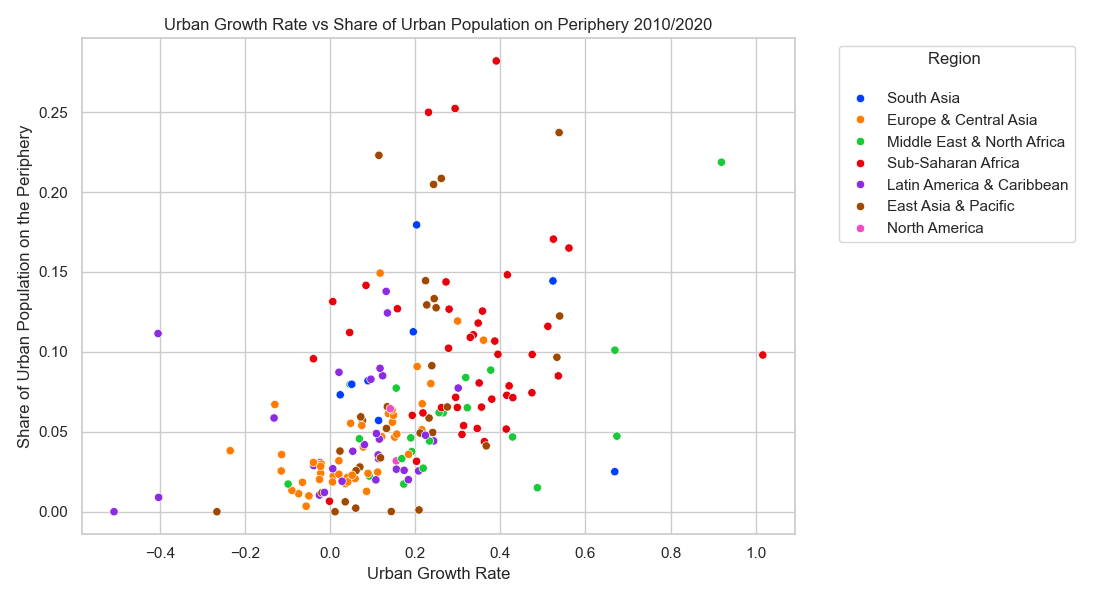
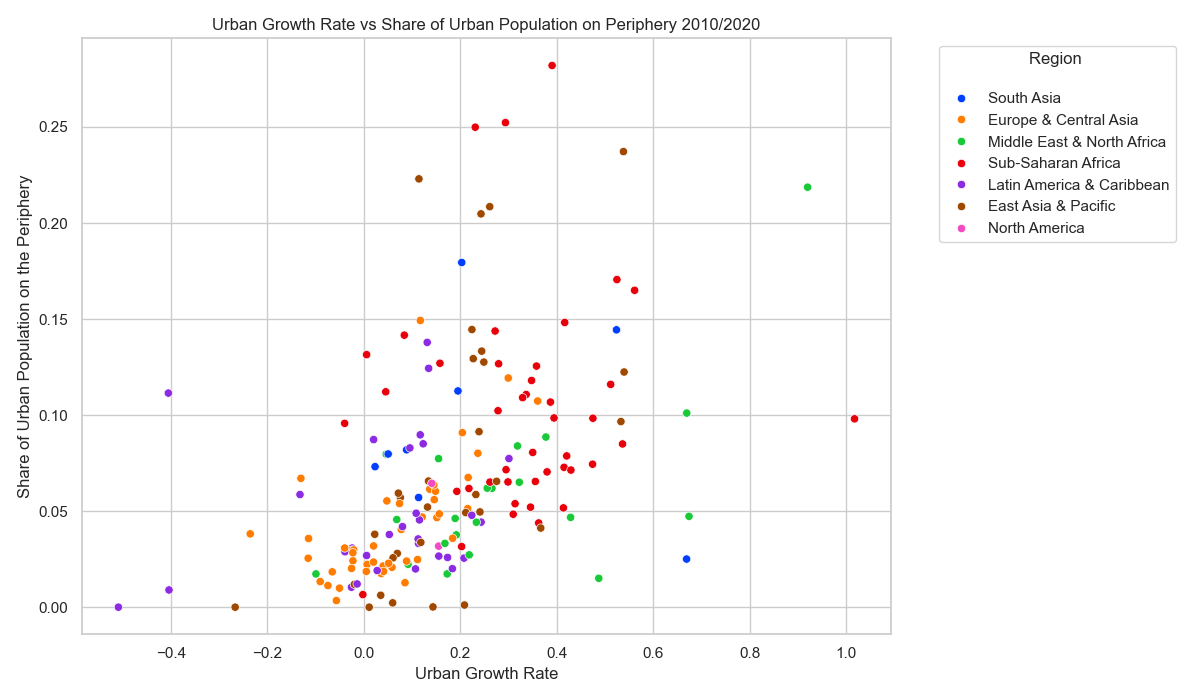
Fixed bugs

diff --git a/plots.py b/plots.py
@@ -29,7 +29,7 @@ dt["urbanGrowthRate"] = dt["UrbpopChange"]/dt["UrbanPopulation2010"]
 dt["shOfPopUrban2010"] = dt["UrbanPopulation2010"]/dt["Population2010"]
 
 # Plot 1 Urban Growth Rate vs Share of Urban Population on Periphery
-plt.figure(figsize=(11, 6))
+plt.figure(figsize=(12, 7))
 sns.scatterplot(data=dt, x="urbanGrowthRate", y="shOfUrbanPopinPeri", hue="Region", palette="bright")
 plt.xlabel("Urban Growth Rate")
 plt.ylabel("Share of Urban Population on the Periphery")
@@ -42,20 +42,20 @@ plt.savefig(results1 + r"\Urban Growth Rate vs Share of Urban Population on Peri
 # -----------------------------------------
 
 # Plot 2 Urban Share in 2010 vs Share of Urban Population on Periphery
-plt.figure(figsize=(11, 6))
+plt.figure(figsize=(12, 7))
 sns.scatterplot(data=dt, x="shOfPopUrban2010", y="shOfUrbanPopinPeri", hue="Region", palette="bright")
-plt.xlabel("Urban Population Share in 2010")
+plt.xlabel("Share of urban population in 2010")
 plt.ylabel("Share of Urban Population on the Periphery")
-plt.title("Urban Population Share in 2010 vs Share of Urban Population on Periphery")
+plt.title("Share of urban population in 2010 vs Share of Urban Population on Periphery")
 plt.legend(bbox_to_anchor=(1.05, 1.0), loc='upper left', title="Region \n")
 plt.tight_layout()
-plt.savefig(results1 + r"\Urban Share in 2010 vs Share of Urban Population on Periphery.png")
+plt.savefig(results1 + r"\Share of urban population in 2010 vs Share of Urban Population on Periphery.png")
 #plt.show()
 
 # --------------------------------------------
 
 # Plot 3  Urban Growth Rate vs Share of Urban Population on Periphery
-plt.figure(figsize=(11, 6))
+plt.figure(figsize=(12, 7))
 
 sns.scatterplot(data=dt, y="urbanGrowthRate", x="shOfPopUrban2010", hue="Region", palette="bright")
 plt.xlabel("Urban Population Share in 2010")
@@ -76,7 +76,7 @@ plt.savefig(results1 + r"\Urban Growth Rate vs Urban Population Share in 2010.pn
 y_axis = (dt["c2UrbanPopChange_2010-2020"])/(dt["c2UrbanPopChange_2010-2020"] + dt["c3UrbanPopChange_2010-2020"])
 pop2010_urban2020 = dt["UrbanPopulation2020"] - dt["c2UrbanPopChange_2010-2020"] - dt["c3UrbanPopChange_2010-2020"]
 x_axis = (dt["c2UrbanPopChange_2010-2020"] + dt["c3UrbanPopChange_2010-2020"])/pop2010_urban2020
-plt.figure(figsize=(11, 6))
+plt.figure(figsize=(12, 7))
 
 sns.scatterplot(data=dt, y=y_axis, x=x_axis, hue="Region", palette="bright")
 plt.xlabel("Total growth rate for current urban area")
@@ -90,15 +90,15 @@ plt.savefig(results1 + r"\Urban Growth Rate vs Urban pop change on pp as share o
 # ------------------------------------------------
 # Plot 5  Share of population that is urban 2010 vs Urban pop change on pp as share of current urban change
 x_axis = dt["UrbanPopulation2010"]/dt["Population2010"]
-plt.figure(figsize=(11, 6))
+plt.figure(figsize=(12, 7))
 
 sns.scatterplot(data=dt, y=y_axis, x=x_axis, hue="Region", palette="bright")
-plt.xlabel("Share of population that is urban 2010")
+plt.xlabel("Share of urban population in 2010")
 plt.ylabel("Urban pop change on periphery as share of current urban change")
-plt.title("Share of population that is urban 2010 vs Urban pop change on periphery as share of current urban change")
+plt.title("Share of urban population in 2010 vs Urban pop change on periphery as share of current urban change")
 plt.legend(bbox_to_anchor=(1.05, 1.0), loc='upper left', title="Region \n")
 plt.tight_layout()
-plt.savefig(results1 + r"\Share of population that is urban 2010 vs Urban pop change on pp as share of current urban change.png")
+plt.savefig(results1 + r"\Share of urban population in 2010 vs Urban pop change on pp as share of current urban change.png")
 #plt.show()
 
 # ---------------------------------------------------
@@ -107,15 +107,15 @@ plt.savefig(results1 + r"\Share of population that is urban 2010 vs Urban pop ch
 dt["urbanPopChange"] = dt["UrbanPopulation2020"] - dt["UrbanPopulation2010"]
 y_axis =  dt["urbanPopChange"]/dt["UrbanPopulation2010"] 
 x_axis = dt["UrbanPopulation2010"]/dt["Population2010"]
-plt.figure(figsize=(11, 6))
+plt.figure(figsize=(12, 7))
 
 sns.scatterplot(data=dt, y=y_axis, x=x_axis, hue="Region", palette="bright")
-plt.xlabel("Share of population that is urban 2010")
+plt.xlabel("Share of urban population in 2010")
 plt.ylabel("Total growth rate for current urban area")
-plt.title("Share of population that is urban 2010 vs total growth rate for current urban area")
+plt.title("Share of urban population in 2010 vs total growth rate for current urban area")
 plt.legend(bbox_to_anchor=(1.05, 1.0), loc='upper left', title="Region \n")
 plt.tight_layout()
-plt.savefig(results1 + r"\Share of population that is urban 2010 vs Total growth rate for current urban area.png")
+plt.savefig(results1 + r"\Share of urban population in 2010 vs Total growth rate for current urban area.png")
 #plt.show()
 
 print('Results saved in ' + results1)
@@ -140,11 +140,11 @@ dt["shOfPopUrban2010"] = dt["UrbanPopulation2010"]/dt["Population2010"]
 # ----------------------------------------------
 
 # Plot 1 Urban Growth Rate vs Share of Urban Population on Periphery
-plt.figure(figsize=(11, 6))
+plt.figure(figsize=(12, 7))
 sns.scatterplot(data=dt, x="urbanGrowthRate", y="shOfUrbanPopinPeri", hue="Region", palette="bright")
 plt.xlabel("Urban Growth Rate")
 plt.ylabel("Share of Urban Population on the Periphery")
-plt.title("Urban Growth Rate vs Share of Urban Population on Periphery 2010/2020")
+plt.title("Urban Growth Rate vs Share of Urban Population on Periphery")
 plt.legend(bbox_to_anchor=(1.05, 1.0), loc='upper left', title="Region \n")
 plt.tight_layout()
 plt.savefig(results2 + r"\Urban Growth Rate vs Share of Urban Population on Periphery.png")
@@ -153,28 +153,28 @@ plt.savefig(results2 + r"\Urban Growth Rate vs Share of Urban Population on Peri
 # -----------------------------------------
 
 # Plot 2 Urban Share in 2010 vs Share of Urban Population on Periphery
-plt.figure(figsize=(11, 6))
+plt.figure(figsize=(12, 7))
 sns.scatterplot(data=dt, x="shOfPopUrban2010", y="shOfUrbanPopinPeri", hue="Region", palette="bright")
-plt.xlabel("Urban Population Share in 2010")
+plt.xlabel("Share of urban population in 2010")
 plt.ylabel("Share of Urban Population on the Periphery")
-plt.title("Urban Population Share in 2010 vs Share of Urban Population on Periphery")
+plt.title("Share of urban population in 2010 vs Share of Urban Population on Periphery")
 plt.legend(bbox_to_anchor=(1.05, 1.0), loc='upper left', title="Region \n")
 plt.tight_layout()
-plt.savefig(results2 + r"\Urban Share in 2010 vs Share of Urban Population on Periphery.png")
+plt.savefig(results2 + r"\Share of urban population in 2010 vs Share of Urban Population on Periphery.png")
 #plt.show()
 
 # --------------------------------------------
 
 # Plot 3  Urban Growth Rate vs Share of Urban Population on Periphery
-plt.figure(figsize=(11, 6))
+plt.figure(figsize=(12, 7))
 
 sns.scatterplot(data=dt, y="urbanGrowthRate", x="shOfPopUrban2010", hue="Region", palette="bright")
-plt.xlabel("Urban Population Share in 2010")
+plt.xlabel("Share of urban population in 2010")
 plt.ylabel("Urban Growth Rate")
-plt.title("Urban Growth Rate vs Urban Population Share in 2010")
+plt.title("Urban Growth Rate vs Share of urban population in 2010")
 plt.legend(bbox_to_anchor=(1.05, 1.0), loc='upper left', title="Region \n")
 plt.tight_layout()
-plt.savefig(results2 + r"\Urban Growth Rate vs Urban Population Share in 2010.png")
+plt.savefig(results2 + r"\Urban Growth Rate vs Share of urban population in 2010.png")
 #plt.show()
 
 # ----------------------------------------------
@@ -187,7 +187,7 @@ plt.savefig(results2 + r"\Urban Growth Rate vs Urban Population Share in 2010.pn
 y_axis = (dt["c2UrbanPopChange_2010-2020"])/(dt["c2UrbanPopChange_2010-2020"] + dt["c3UrbanPopChange_2010-2020"])
 pop2010_urban2020 = dt["UrbanPopulation2020"] - dt["c2UrbanPopChange_2010-2020"] - dt["c3UrbanPopChange_2010-2020"]
 x_axis = (dt["c2UrbanPopChange_2010-2020"] + dt["c3UrbanPopChange_2010-2020"])/pop2010_urban2020
-plt.figure(figsize=(11, 6))
+plt.figure(figsize=(12, 7))
 
 sns.scatterplot(data=dt, y=y_axis, x=x_axis, hue="Region", palette="bright")
 plt.xlabel("Total growth rate for current urban area")
@@ -202,15 +202,15 @@ plt.savefig(results2 + r"\Urban Growth Rate vs Urban pop change on pp as share o
 
 # Plot 5  Share of population that is urban 2010 vs Urban pop change on pp as share of current urban change
 x_axis = dt["UrbanPopulation2010"]/dt["Population2010"]
-plt.figure(figsize=(11, 6))
+plt.figure(figsize=(12, 7))
 
 sns.scatterplot(data=dt, y=y_axis, x=x_axis, hue="Region", palette="bright")
-plt.xlabel("Share of population that is urban 2010")
+plt.xlabel("Share of urban population in 2010")
 plt.ylabel("Urban pop change on periphery as share of current urban change")
-plt.title("Share of population that is urban in 2010 vs Urban pop change on periphery as share of current urban change")
+plt.title("Share of urban population in 2010 vs Urban pop change on periphery as share of current urban change")
 plt.legend(bbox_to_anchor=(1.05, 1.0), loc='upper left', title="Region \n")
 plt.tight_layout()
-plt.savefig(results2 + r"\Share of population that is urban 2010 vs Urban pop change on pp as share of current urban change.png")
+plt.savefig(results2 + r"\Share of urban population in 2010 vs Urban pop change on pp as share of current urban change.png")
 #plt.show()
 
 
@@ -220,15 +220,15 @@ plt.savefig(results2 + r"\Share of population that is urban 2010 vs Urban pop ch
 dt["urbanPopChange"] = dt["UrbanPopulation2020"] - dt["UrbanPopulation2010"]
 y_axis =  dt["urbanPopChange"]/dt["UrbanPopulation2010"] 
 x_axis = dt["UrbanPopulation2010"]/dt["Population2010"]
-plt.figure(figsize=(11, 6))
+plt.figure(figsize=(12, 7))
 
 sns.scatterplot(data=dt, y=y_axis, x=x_axis, hue="Region", palette="bright")
-plt.xlabel("Share of population that is urban 2010")
+plt.xlabel("Share of urban population in 2010")
 plt.ylabel("Total growth rate for current urban area")
-plt.title("Share of population that is urban in 2010 vs Total growth rate for current urban area")
+plt.title("Share of urban population in 2010 vs Total growth rate for current urban area")
 plt.legend(bbox_to_anchor=(1.05, 1.0), loc='upper left', title="Region \n")
 plt.tight_layout()
-plt.savefig(results2 + r"\Share of population that is urban 2010 vs total growth rate for current urban area.png")
+plt.savefig(results2 + r"\Share of urban population 2010 vs Total growth rate for current urban area.png")
 #plt.show()
 
 print('Results saved in ' + results2)
